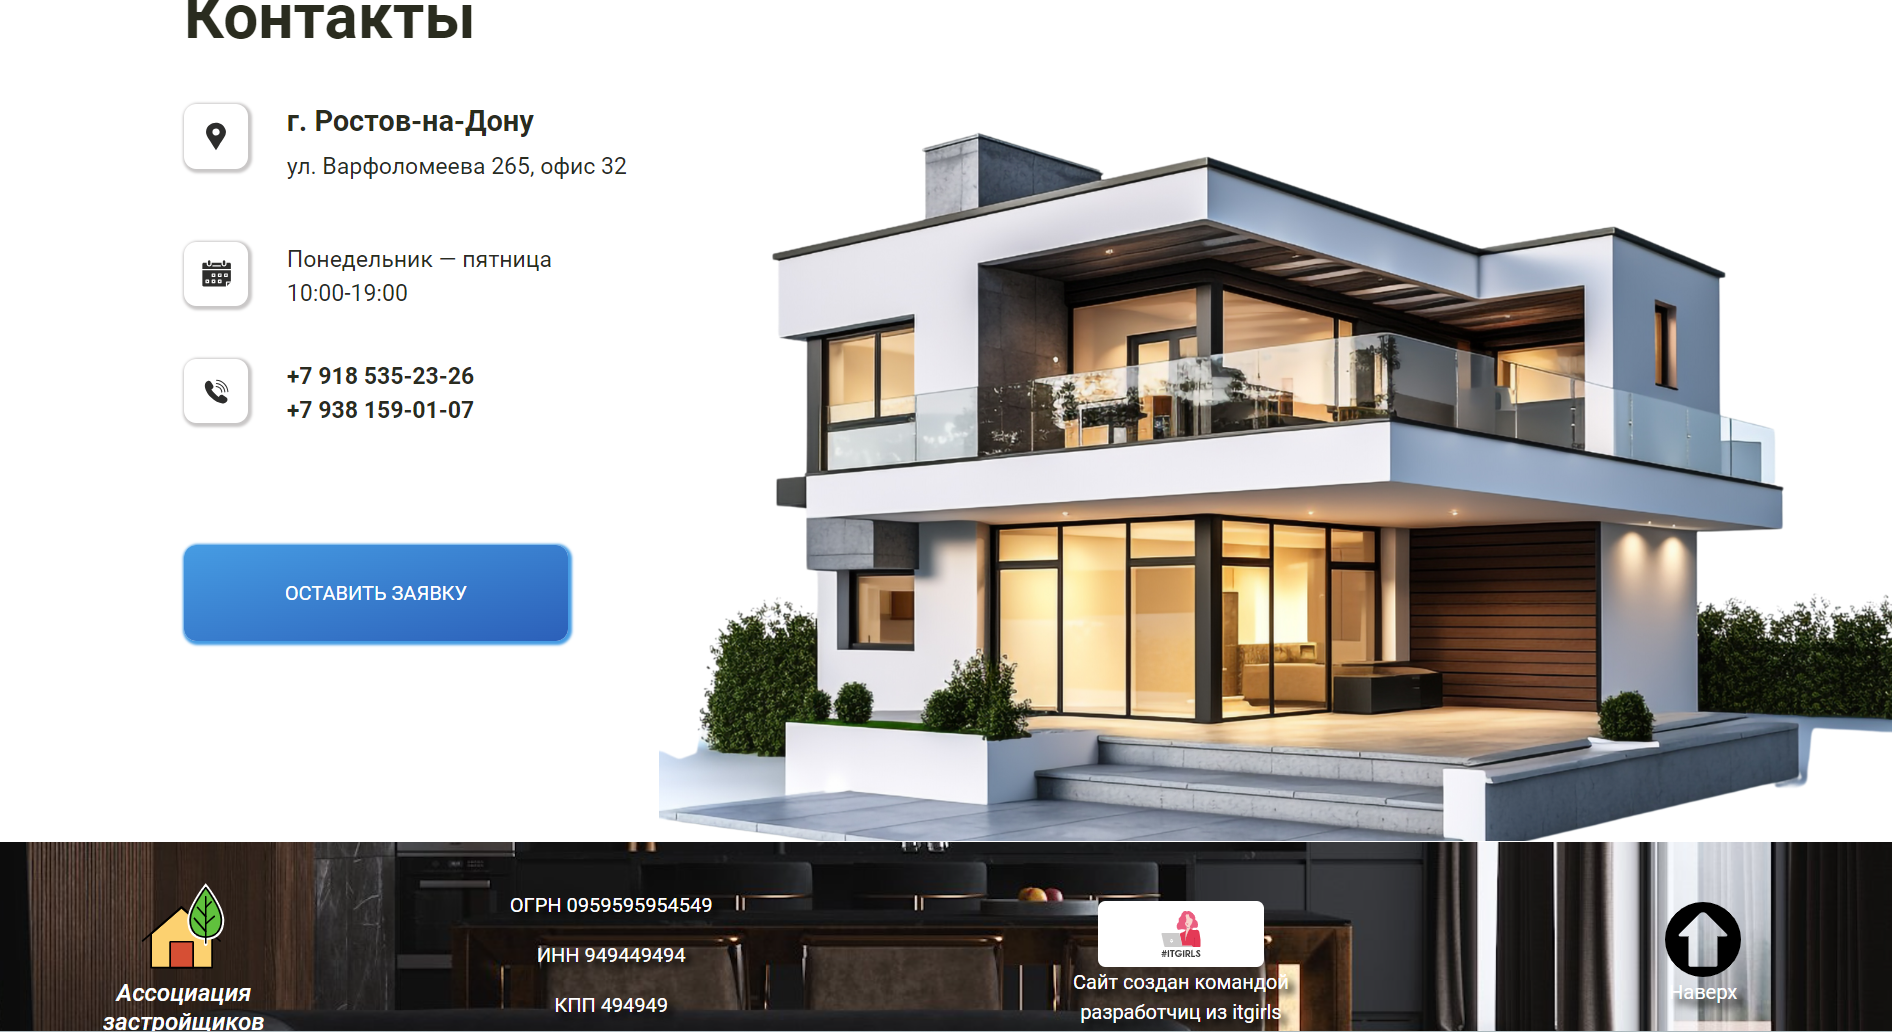
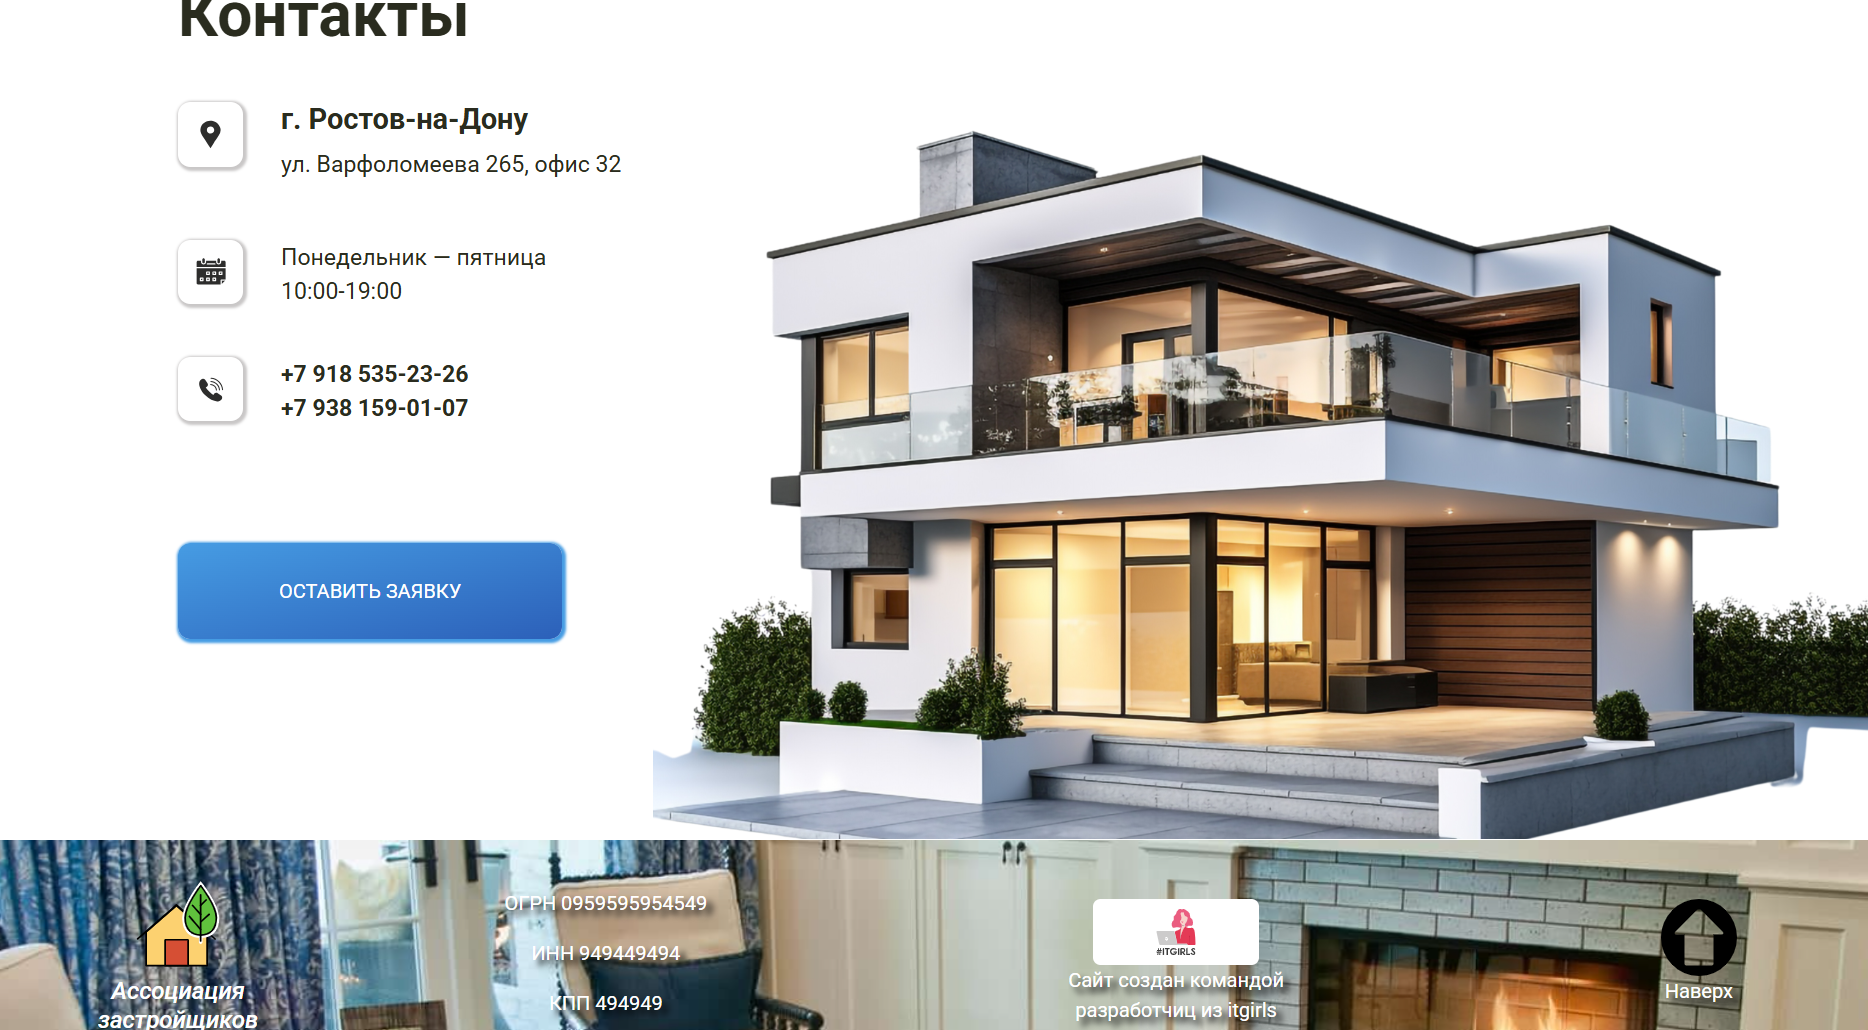
readme & some minor bugs  fixed

diff --git a/assets/styles/style.css b/assets/styles/style.css
@@ -1651,7 +1651,7 @@
   display: grid;
   grid-template: 80% 20%/1fr;
   height: 100%;
-  background-image: url(https://gas-kvas.com/grafic/uploads/posts/2024-01/gas-kvas-com-p-oboi-temnie-doma-30.jpg);
+  background-image: url(../images/header/header_2.jpg);
   background-attachment: fixed;
   background-position: top;
 }
@@ -1913,7 +1913,7 @@
   grid-area: 1/1/2/4;
   align-content: center;
   text-align: center;
-  background-image: url(https://gas-kvas.com/grafic/uploads/posts/2024-01/gas-kvas-com-p-oboi-temnie-doma-30.jpg);
+  background-image: url(../images/header/header_1.jpg);
   background-position: center;
 }
 .grid-container_projects_body .grid-item_projects_body_header .grid-container_header .grid-item_sup-header .projects_title {
@@ -1994,7 +1994,7 @@
   display: flex;
   justify-content: center;
   align-items: center;
-  background-image: url(https://cobrio.club/uploads/posts/2022-10/1666014441_5-cobrio-club-p-podsvetka-karkasnogo-doma-dizain-krasivo-5.jpg);
+  background-image: url(../images/main_block3-houses/img_house6.jpg);
   background-attachment: fixed;
   background-size: cover;
   width: 100%;
@@ -2105,7 +2105,7 @@
 .grid-container_projects_body .grid-item_projects_body_footer .grid-container_footer {
   display: grid;
   grid-template: 1fr/20% 80%;
-  background-image: url(https://gas-kvas.com/grafic/uploads/posts/2024-01/gas-kvas-com-p-oboi-temnie-doma-30.jpg);
+  background-image: url(../images/main_block3-houses/img_house1.jpg);
   background-attachment: fixed;
   background-position: top;
   height: 100%;
